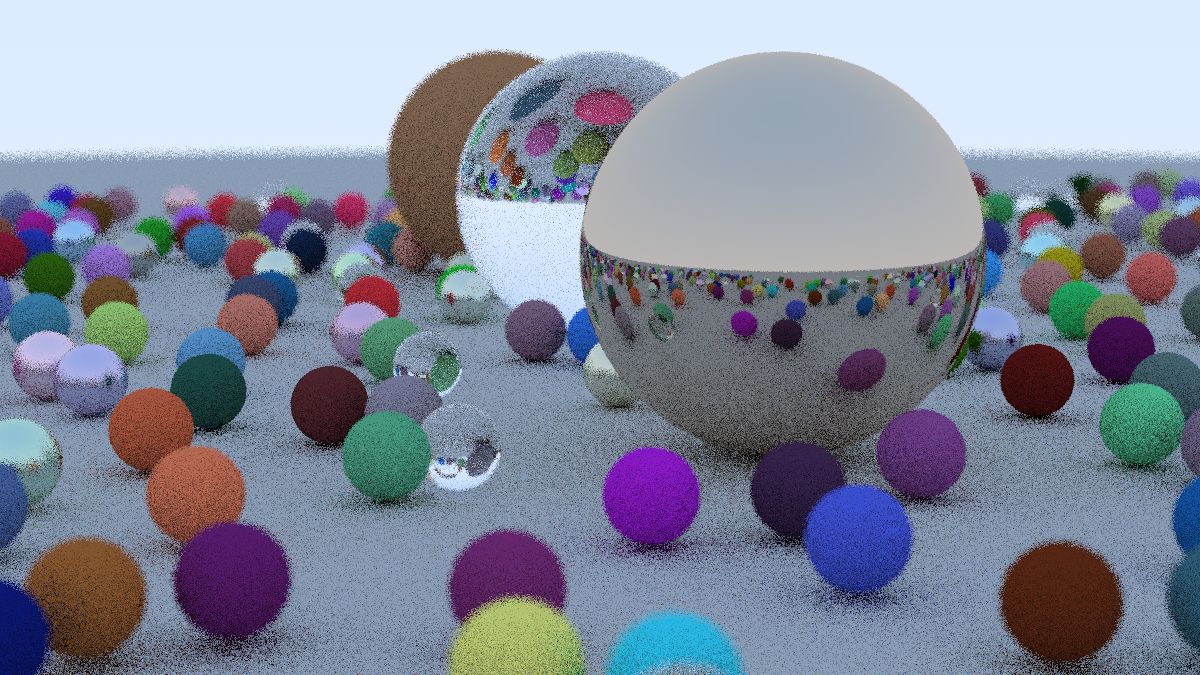
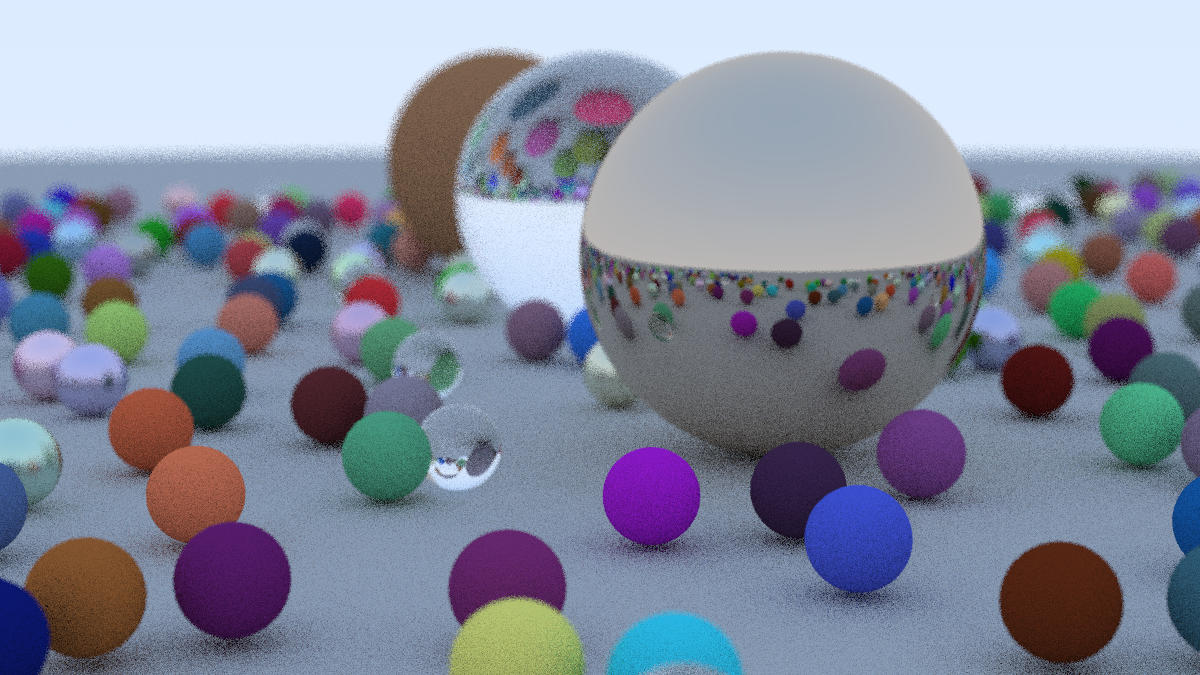
depth_test_2

Changed region(s): [[0.0, 0.0622, 1.0, 1.0]]

diff --git a/RayTracing In One Weekend/main.cc b/RayTracing In One Weekend/main.cc
@@ -101,7 +101,7 @@ int main() {
     const auto aspect_ratio = 16.0 / 9.0;
     const int image_width = 1200;
     const int image_height = static_cast<int>(image_width / aspect_ratio);
-    const int samples_per_pixel = 3;
+    const int samples_per_pixel = 100;
     const int max_depth = 50;
 
     // World
@@ -112,8 +112,8 @@ int main() {
     point3 lookfrom(13,2,3);
     point3 lookat(0,0,0);
     vec3 vup(0,1,0);
-    auto dist_to_focus = (lookfrom - lookat).length();
-    //auto dist_to_focus = 10.0;
+    //auto dist_to_focus = (lookfrom - lookat).length();
+    auto dist_to_focus = 10.0;
     auto aperture = 0.1;
 
     camera cam(lookfrom, lookat, vup, 20, aspect_ratio, aperture, dist_to_focus);
